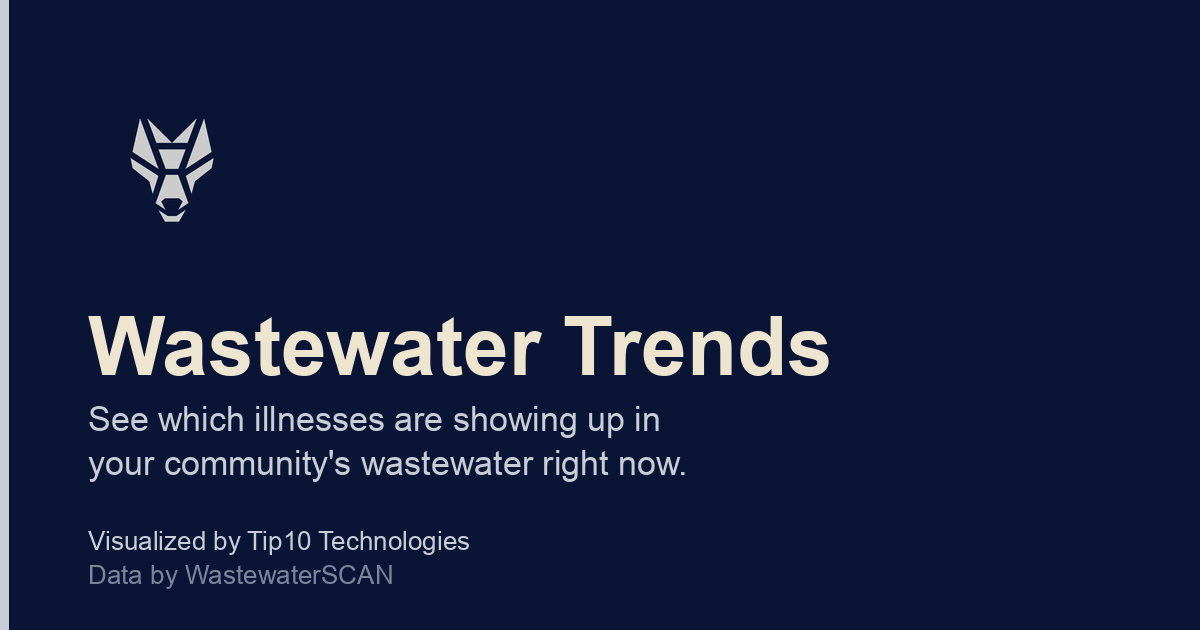
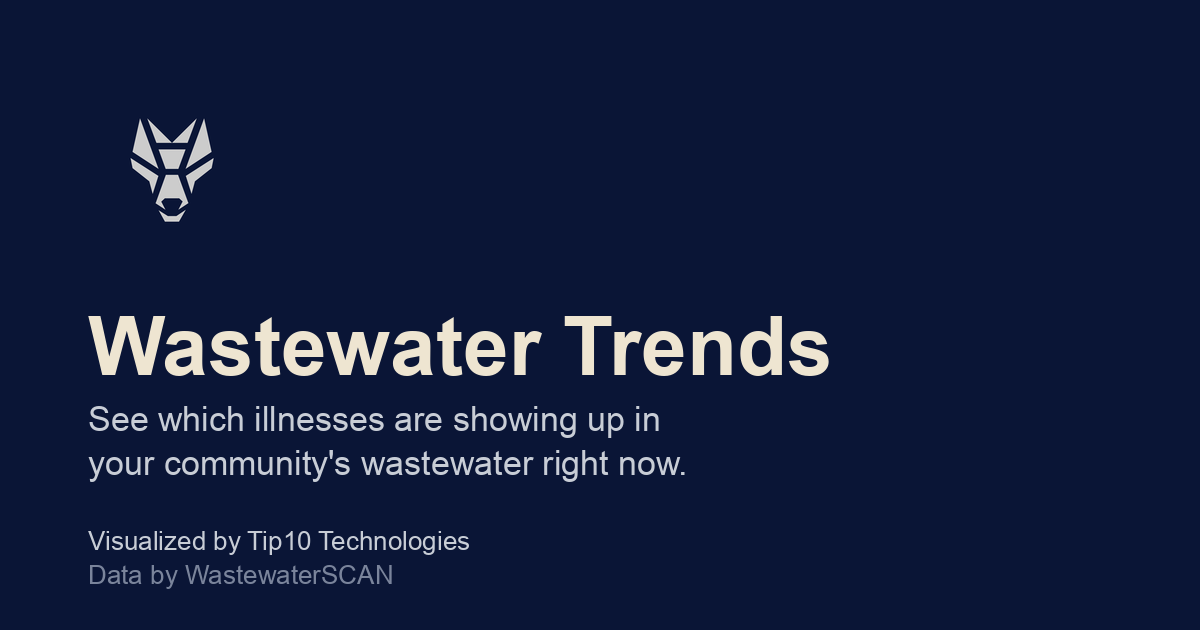
Drop the accent rule from the preview card
I added a silver hairline down the left edge of the og-image as an echo of the
site's accent borders. It read as a stray white line against the navy rather
than as deliberate trim. Removed; the card is now a clean navy field.

Changed region(s): [[0.0, 0.0, 0.0308, 1.0]]

diff --git a/scripts/make_images.py b/scripts/make_images.py
@@ -58,9 +58,6 @@ def og_image(source: Image.Image) -> None:
     card = Image.new("RGB", (width, height), NAVY)
     draw = ImageDraw.Draw(card)
 
-    # A hairline rule down the left, echoing the site's accent borders.
-    draw.rectangle([0, 0, 8, height], fill=SILVER)
-
     mark = source.convert("RGBA").resize((168, 168), Image.LANCZOS)
     card.paste(mark, (88, 86), mark)
 
